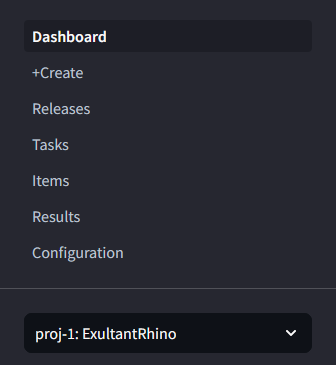
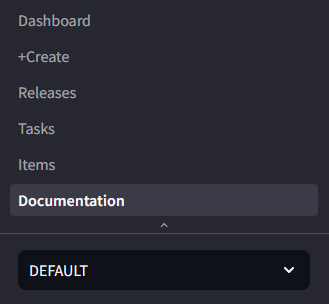
17072024-2020

diff --git a/README.md b/README.md
@@ -48,9 +48,11 @@ Navigation bar is located on the left hand side. By using it you can move from p
 
 <h5>Dashboard</h5>
 Dashboard is main page where project summary can be found. There are pieces of information about number of active releases, requirements, test cases and bugs.
-It is planned to extend this page with the latest news, notifications and graphs describing project in better details.
+If any release is empty (has no requirement attached), requirement not covered with test case or bug is active you will see proper notification about that fact and also direct links to all items.
 
-![dashboard.png](doc/dashboard.PNG)
+![notifications.png](doc/notifications.PNG)
+
+It is planned to extend this page with graphs describing project in much better details.
 
 <h5>+Create</h5>
 Create page is where items creation happens. 
@@ -68,7 +70,17 @@ Keep in mind that release can only be finished when 100% of tasks are done.
 ![releases.png](doc/releases.PNG)
 
 <h5>Tasks & Items</h5>
-All created tasks and items with View page urls. These two pages will be revamped in one of next releases.
+All created tasks and items with View page urls and statuses. Items can be additionally filtered by available releases and tasks by their statuses. It is all to manage views in more convenient way.
+
+![items.png](doc/items.PNG)
+
+![tasks.png](doc/tasks.PNG)
+
+<h5>Documentation</h5>
+Documentation page is separate place dedicated for users to define it by themselves and put project description, manuals, important notes etc. there.
+To which in this project case is just the same README.md file that you are currently reading from so documentation would look just the same way as top page of this markdown.
+
+![documentation.png](doc/documentation.PNG)
 
 <h5>Results & Configuration</h5>
 Still in development.
